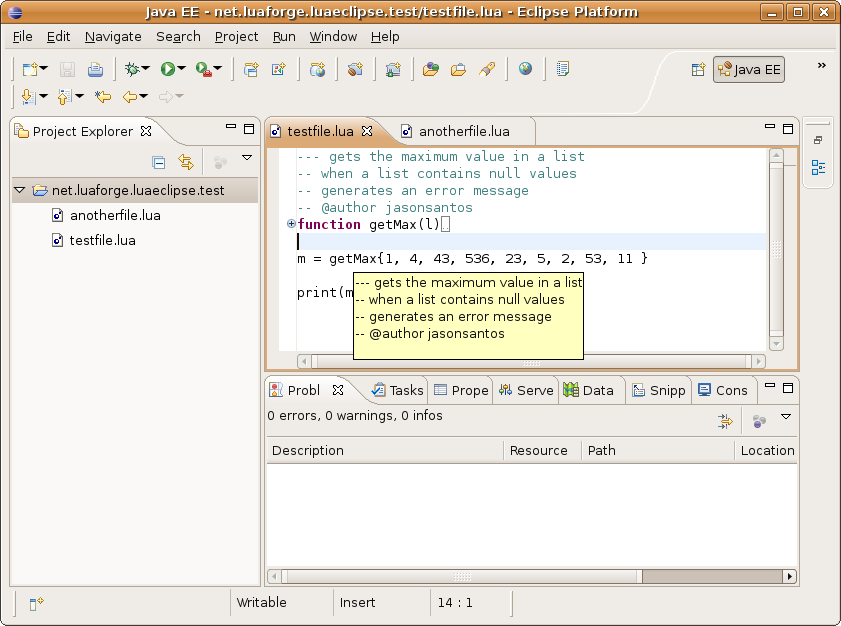
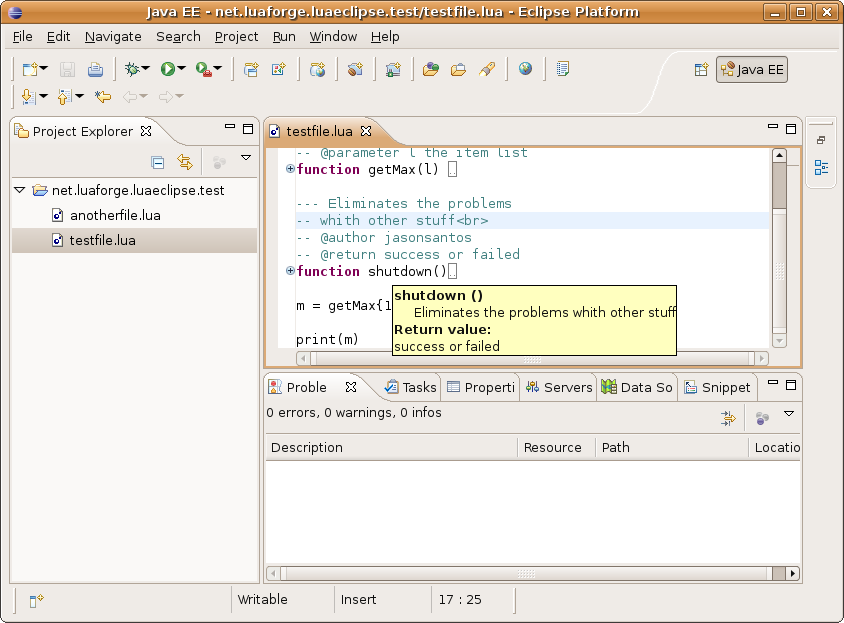
Updated documentation for 1.2 release (US and BR) Added several screenshots

diff --git a/doc/br/manual.html b/doc/br/manual.html
@@ -52,10 +52,10 @@ integrado para a linguagem de programa&ccedil;&atilde;o Lua</div>
 		<li><a href="manual.html#introduction">Introdu&ccedil;&atilde;o</a></li>
 		<li><a href="manual.html#installation">Instala&ccedil;&atilde;o</a></li>
 		<li><a href="manual.html#project">Primeiro Projeto Lua</a></li>
-		<li><a href="manual.html#preferences">Prefer&ecirc;ncias e
-		interpretadores</a></li>
+		<li><a href="manual.html#preferences">Prefer&ecirc;ncias e interpretadores</a></li>
 		<li><a href="manual.html#run">Executando um arquivo Lua</a></li>
-		<!--<li><a href="manual.html#extension">Pontos de extens&atilde;o</a></li>-->
+		<li><a href="manual.html#luaprofiler">Integração com LuaProfiler</a></li>
+		<li><a href="manual.html#luadoc">Integração com LuaDoc</a></li>
 	</ul>
 	</li>
 	<li><a href="screnshots.html">Screenshots</a></li>
@@ -94,6 +94,8 @@ simples, mas necessita de alguns pr&eacute;-requisitos. O primeiro deles
 3.2 ou superior da plataforma Eclipse. O Eclipse pode ser baixado no endere&ccedil;o
 <a href="http://www.eclipse.org">www.eclipse.org</a>. A instala&ccedil;&atilde;o do Eclipse, por sua vez, exigir&aacute; uma instala&ccedil;&atilde;o pr&eacute;via do  Java SDK.</p>
 
+<p>É possível install o LuaEclipse com a instalação mínima do Eclipse (Eclipse Platform Binaries), mas é recomendável usar uma distribuição mais completa, como o C/C++ Development Tooling (CDT).</p>
+
 <p>Existem duas formas de instalar o LuaEclipse.</p>
 
 <ul>
@@ -108,7 +110,8 @@ simples, mas necessita de alguns pr&eacute;-requisitos. O primeiro deles
 		</li>
 		<li>Marque somente LuaEclipse e clique em "Finish". Em seguida
 		siga os passos da instala&ccedil;&atilde;o <img alt="LuaElipse"
-			src="img/install1.png" /></li>
+			src="img/install1.png" /><li>Na próxima tela, seleciona as <i>features</i> para instalar. Se deseja utilizar a nova integração com o LuaProfiler, selecione a feature apropriada.<br />
+		<img alt="LuaElipse" src="img/install2.png" /></li></li>
 	</ul>
 	</li>
 	<li>A partir do download manual:
@@ -137,7 +140,7 @@ simples, mas necessita de alguns pr&eacute;-requisitos. O primeiro deles
 
 <p>Para criar um novo projeto Lua, clique no menu na
 op&ccedil;&atilde;o File-&gt;New-&gt;New Lua Project.</p>
-<p><img alt="LuaElipse" src="img/newproject.png" /></p>
+<p><img alt="LuaElipse" src="img/newproject.png" /><br /><img src="img/newproject_wizard.png" /></p>
 <p>Para incluir um novo script Lua. Selecione o projeto Lua
 desejado, em seguida clique com o bot&atilde;o direito e selecione a
 op&ccedil;&atilde;o Lua Actions-&gt;New Lua File</p>
@@ -174,10 +177,10 @@ ser&aacute; armazenada.</p>
 
 <h2><a name="run"></a>Executando um arquivo Lua</h2>
 
-<p>O LuaEclipse utiliza as extens&otilde;es do Eclipse para
-execu&ccedil;&atilde;o de scripts Lua. Para executar um arquivo .lua
+<p>O LuaEclipse usa os <i>Launchers</i> da plataforma Eclipse para executar os scripts Lua. <br />Existem duas maneiras de executar um script lua: você pode criar uma configuração de execução para seu script ou pode usar o menu de contexto do Eclipse diretamente no arquivo, selecionando  Run As -&gt; Lua application. <br />
+<img alt="LuaElipse" src="img/runfileas.png" /><br />Para criar uma configuração de execução,
 selecione a op&ccedil;&atilde;o de menu Run-&gt;Run...<br />
-Crie uma nova configura&ccedil;&atilde;o de execu&ccedil;&atilde;o do
+Crie uma nova configura&ccedil;&atilde;o do
 tipo "Lua Standalone Application".</p>
 <p><img alt="LuaElipse" src="img/runfile.png" /></p>
 
@@ -187,9 +190,33 @@ tipo "Lua Standalone Application".</p>
 <p> Finalmente na aba Environment, selecione ou adicione um interpretador Lua para executar o arquivo Lua.
 No campo Variables, adicione as vari&aacute;veis de ambiente que desejar para a execu&ccedil;&atilde;o do script.</p>
 <p><img alt="LuaElipse" src="img/environment.png" /></p>
-<p> Pressione o bot&atilde;o "Run", e acompanhe a saída padr&atilde;o na "Console View".
+<p> Pressione o bot&atilde;o "Run", e acompanhe a saída padr&atilde;o na "Console View".<br /><h2>Integração com o LuaProfiler</h2>
+
+<p>LuaEclipse introduziu na version 1.2 uma nova perspectiva para o  Lua Profiler. Ela torna possível ao usuário executar um script lua usando o módulo LuaProfiler, exibindo os resultados numa View especial</p> 
+<p><img alt="LuaElipse" src="img/LuaEclipse-profiler-01.png" /></p>
+<p>Uma vez que é possível utilizar diversos binários de runtime, é necessário indicar o mecanismo de profile que se deseja usar.</p> 
+<p><img alt="LuaElipse" src="img/LuaEclipse-Profiler-02.png" /></p>
+<p>Esse mecanismo de profiler será identificado por um nome, e pode ser reutilizado em diversos projetos.</p> 
+<p><img alt="LuaElipse" src="img/LuaEclipse-Profiler-03.png" /></p>
+<p>Uma vez que o profiler estiver selecionado, qualquer script que possa ser executado poderá ser analisado com o LuaProfiler. Não há necessidade de incluir comandos 'require' ou iniciar o profiler de nenhuma forma dentro do script - o plug-in  funcionará automaticamente em qualquer script Lua válido</p> 
+<p><img alt="LuaElipse" src="img/LuaEclipse-Profiler-05.png" /></p>
+<p>Os resultados da análise de execução com o LuaProfiler podem ser vistos em uma View especial, separados em colunas. A primeira coluna mostrará todas as funções usadas na execução; a segunda coluna mostrará a quantidade de vezes que cada função foi chamada; a terceira mostra o tempo médio decorrido dentro da função, dividido pela quantidade de chamadas; as últimas duas colunas são o tempo total gasto dentro de cada função e o percentual da execução total que esses tempos representam.</p>
+
+<h2><a name="luadoc"></a>Integração com o LuaDoc</h2>
+
+<p>A versão  1.2  do LuaEclipse também introduziu integração básica com o módulo LuaDoc.</p> 
+<p><img alt="LuaElipse" src="img/LuaEclipse-luadoc-01.png" /></p>
+<p>É possível ao usuário escrever documentação no estilo LuaDoc diretamente em seu código, e visualizar os resultados formatados em HTML no hover do mouse.</p> 
+<p><img alt="LuaElipse" src="img/LuaEclipse-luadoc-03.png" /></p>
+<p>O plugin usa o próprio LuaDoc para processar a documentação; o módulo está agora embutido na distribuição padrão do LuaEclipse, de modo que os usuários não precisam instalá-lo antes de usar essas funcionalidades.</p> 
+<p><img alt="LuaElipse" src="img/LuaEclipse-luadoc-05.png" /></p>
+<p>A documetação é processada cada vez que um arquivo lua é salvo, e a documentação presente no projeto é persistida e fica disponível mesmo depois que o projeto é fechado e reaberto.</p> 
+<p><img alt="LuaElipse" src="img/LuaEclipse-luadoc-04.png" /></p>
+<p>Adicionalmente, o manual de referência do  Lua 5.1 foi incluída como uma documentação extra - de modo que o usuário agora pode sobrevoar as funções da biblioteca padrão com o mouse para visualizar sua documentação oficial.</p>
 </div>
 <!-- id="content" --></div>
+
+
 <!-- id="main" -->
 
 <div id="about">

diff --git a/doc/us/manual.html b/doc/us/manual.html
@@ -55,7 +55,8 @@ environment for the Lua programming language</div>
 				<li><a href="manual.html#project">First Lua project</a></li>
 				<li><a href="manual.html#preferences">Preferences and interpreters</a></li>
 				<li><a href="manual.html#run">Running a Lua file</a></li>
-                                <!--<li><a href="manual.html#extension">Pontos de extens&atilde;o</a></li>-->
+				<li><a href="manual.html#luaprofiler">LuaProfiler Integration</a></li>
+				<li><a href="manual.html#luadoc">LuaDoc Integration</a></li>
 			</ul>
 		</li>
 		<li><a href="screenshots.html">Screenshots</a></li>
@@ -90,6 +91,8 @@ The first one is that the user must have already installed the 3.2.* or later ve
 the Eclipse platform. Eclipse can be downloaded at 
 <a href="http://www.eclipse.org">www.eclipse.org</a>. As a consequence,
 it is necessary that Java SDK is installed to run Eclipse.</p>
+
+<p>It is possible to install LuaEclipse with the minimal installation of Eclipse (Eclipse Platform Binaries), but we recommend a more complete distribution, such as C/C++ Development Tooling (CDT).</p>
 
 <p>There are two ways to install LuaEclipse.</p>
 
@@ -172,7 +175,9 @@ On the Arguments Tab: configure the working directory, interpreter arguments and
 At Variables field, add th environment variables needed for your script.</p>
 <p><img alt="LuaElipse" src="img/environment.png" /></p>
 <p> Press Run and view the script output at the "Console View".</p>
-<h2><a name="preferences"></a>LuaProfiler Integration</h2>
+
+<h2><a name="luaprofiler"></a>LuaProfiler Integration</h2>
+
 <p>LuaEclipse introduced in version 1.2 a new Lua Profiler perspective. It makes possible for the user to run a lua script using the LuaProfiler module, while seeing the results in a special View</p> 
 <p><img alt="LuaElipse" src="img/LuaEclipse-profiler-01.png" /></p>
 <p>Since one can make use of several runtime binaries, it is necessary to select a profiler engine to use.</p> 
@@ -181,7 +186,22 @@ At Variables field, add th environment variables needed for your script.</p>
 <p><img alt="LuaElipse" src="img/LuaEclipse-Profiler-03.png" /></p>
 <p>Once the profiler is selected, any executable script can be profiled. There is no need to require or to start the profiler within the program - the plug-in will automatically work on any valid Lua script</p> 
 <p><img alt="LuaElipse" src="img/LuaEclipse-Profiler-05.png" /></p>
-<p>Results of the profiling execution can be seen in a special View, separated in columns. The first column will show all functions used in the execution; the second column will show the amount of times each function was called; A third column shows the average time spent inside the function, divided by the amount of calls; the last two columns are the total time spent inside each function and the percent of the total execution that these times represent.</p> 
+<p>Results of the profiling execution can be seen in a special View, separated in columns. The first column will show all functions used in the execution; the second column will show the amount of times each function was called; A third column shows the average time spent inside the function, divided by the amount of calls; the last two columns are the total time spent inside each function and the percent of the total execution that these times represent.</p>
+
+
+<h2><a name="luadoc"></a>LuaDoc Integration</h2>
+
+<p>Version 1.2 introduced also basic integration with the LuaDoc module.</p> 
+<p><img alt="LuaElipse" src="img/LuaEclipse-luadoc-01.png" /></p>
+<p>It makes possible for the user to write LuaDoc-style documentation on his code and make their HTML results available in mouse hover.</p> 
+<p><img alt="LuaElipse" src="img/LuaEclipse-luadoc-03.png" /></p>
+<p>The plugin uses LuaDoc itself for processing documentation; the module is now included in the standard bundle of LuaEclipse, so users do not need to install it before using this feature.</p> 
+<p><img alt="LuaElipse" src="img/LuaEclipse-luadoc-05.png" /></p>
+<p>Documentation is processed every time a file is saved in the project, and documentation present in project is persisted and available after the project is closed and reopen.</p> 
+<p><img alt="LuaElipse" src="img/LuaEclipse-luadoc-04.png" /></p>
+<p>Aditionally, Lua 5.1 reference was included as a bonus documentation - so the user now can hover standard library functions for their official documentation.</p>
+
+ 
 </div>
 <!-- id="content" --></div>
 <!-- id="main" -->

diff --git a/doc/us/index.html b/doc/us/index.html
@@ -52,7 +52,9 @@
 				<li><a href="manual.html#project">First Lua project</a></li>
 				<li><a href="manual.html#preferences">Preferences and interpreters</a></li>
 				<li><a href="manual.html#run">Running a Lua file</a></li>
-                                <!--<li><a href="manual.html#extension">Pontos de extens&atilde;o</a></li>-->
+				<li><a href="manual.html#luaprofiler">LuaProfiler Integration</a></li>
+				<li><a href="manual.html#luadoc">LuaDoc Integration</a></li>
+
 			</ul>
 		</li>
 		<li><a href="screenshots.html">Screenshots</a></li>
@@ -71,13 +73,11 @@
 <h2><a name="overview"></a>Overview
 </h2>
 <p>
-
-
   LuaEclipse is a collection of plugins developed for the <a href="https://www.eclipse.org">Eclipse</a>  platform that together make an IDE for the development of applications in the Lua programming language.
   In this environment it's possible to edit Lua scripts with <i>syntax highlight, code completion</i>, compilation errors, code and comment folding, script execution with a pre-configured interpreter, besides the tools that the eclipse platform provides.
 </p>
 <p>
-The main goal of the project is that new tools will be developed using the extension architecture that the Eclipse platform provides and that LuaEclipse has available for extension of its capabilities.
+  The main goal of the project is that new tools will be developed using the extension architecture that the Eclipse platform provides and that LuaEclipse has available for extension of its capabilities.
 </p>
 
 
@@ -88,13 +88,13 @@ The main goal of the project is that new tools will be developed using the exten
   All plugins are developed in Java. A plugin consists of Java classes packed in a JAR library and some files like img, XML files, native libraries, etc. Not all plugins have Java code, some of them are plugins holding help files and user manuals.
 </p>
 <p>
-  Version 1.2.0 has introduced integration with LuaDoc 3.0 - that is distributed embedded within LuaEclipse - and LuaProfiler. 
+  Version 1.2.0 has introduced integration with <a href="http://luadoc.luaforge.net/">LuaDoc</a> 3.0.1 - that is distributed embedded within LuaEclipse - and <a href="http://www.keplerproject.org/luaprofiler/">LuaProfiler</a>, that must be installed independently. 
 </p>
 <h2><a name="status"></a>Status</h2>
 <p>LuaEclipse 1.2.0 (for Lua 5.1) is available for 
 <a href="#download">download</a>.
 </p>
-<p>The plugin has versions for Windows, MacOS X and Linux, and has been tested for Eclipse 3.2.x and Eclipse 3.3.x</p>
+<p>The plugin has versions for Windows, MacOS X and Linux, and has been tested for Eclipse 3.3.x</p>
 
 <h2><a name="download"></a>Download</h2>
 <p>LuaEclipse can be obtained directly from the plug-in update site. See <a href="manual.html#installation">installation instructions.</a></p>
@@ -105,7 +105,7 @@ The main goal of the project is that new tools will be developed using the exten
 
 <h4>LuaEclipse 1.2</h4>
 <p>
-The 1.2 version was developed by Luís Eduardo Jason Santos,   Edgard Arakaki and Guilherme Martins, with contribuitions from Andr&eacute; Carregal, Raphael Amorim, Danilo Tuler and Thiago Ponte.
+The 1.2 version was developed by Lu&iacute;s Eduardo Jason Santos,   Edgard Arakaki and Guilherme Martins, with contribuitions from Andr&eacute; Carregal, Raphael Amorim, Danilo Tuler and Thiago Ponte.
 </p>
 <h4>LuaEclipse 1.1</h4>
 <p>

diff --git a/doc/br/index.html b/doc/br/index.html
@@ -52,6 +52,8 @@
 				<li><a href="manual.html#project">Primeiro Projeto Lua</a></li>
 				<li><a href="manual.html#preferences">Prefer&ecirc;ncias e interpretadores</a></li>
 				<li><a href="manual.html#run">Executando um arquivo Lua</a></li>
+				<li><a href="manual.html#luaprofiler">Integração com LuaProfiler</a></li>
+				<li><a href="manual.html#luadoc">Integração com LuaDoc</a></li>
 			</ul>
 		</li>
 		<li><a href="screnshots.html">Screenshots</a></li>
@@ -81,14 +83,15 @@ O ponto principal do projeto, &eacute; que estas novas ferramentas ser&atilde;o 
 <p>
   Um plug-in &eacute; a menor unidade da plataforma Eclipse que pode ser desenvolvida e distribuida separadamente. Normalmente uma ferramenta &eacute; desenvolvida como um &uacute;nico plug-in, enquanto outras mais complexas s&atilde;o constitu&iacute;das v&aacute;rios plug-ins. Exceto pelo c&oacute;digo principal da plataforma de execu&ccedil;&atilde;o do Eclipse, todas as funcionalidade est&atilde;o implementadas como plug-ins. <br/>
   Todos os plug-ins s&atilde;o desenvolvidos em Java. Um plug-in consiste de classes Java empacotadas em uma biblioteca do tipo JAR e alguns arquivos como imagens, arquivos XML, bibliotecas nativas, etc. Nem todos os plugins possuem c&oacute;digo necessariamente, alguns deles s&atilde;o plug-ins que contribuem, por exemplo, com arquivos de ajuda e manual de usu&aacute;rio em p&aacute;ginas HTML.
-
 </p>
+
+<P>A versão 1.2.0 introduziu a integração com o LuaDoc 3.0.1 - que está sendo distribuído embutido no LuaEclipse - e com o LuaProfiler.</P>
 
 <h2><a name="status"></a>Status</h2>
-<p>A vers&atilde;o 1.1.0 do LuaEclipse (para Lua 5.1) est&aacute; dispon&iacute;vel para
+<p>A vers&atilde;o 1.2 do LuaEclipse (para Lua 5.1) est&aacute; dispon&iacute;vel para
 <a href="#download">download</a>.
 </p>
-<p>O plugin possui vers&otilde;es para Windows, MacOS X e Linux, e funciona tanto no Eclipse 3.2.x quanto no Eclipse 3.3.x.</p>
+<p>O plugin possui vers&otilde;es para Windows, MacOS X e Linux, e foi testado no Eclipse 3.3.x.</p>
 
 <h2><a name="download"></a>Download</h2>
 <p>O plug-in do LuaEclipse ser obtido facilmente atrav&eacute;s de seu update site. Veja <a href="manual.html#installation">instru&ccedil;&otilde;es de instala&ccedil;&atilde;o</a></p>
@@ -98,6 +101,11 @@ p&aacute;gina no
 <a href="http://luaforge.net/project/showfiles.php?group_id=9">LuaForge</a>. </p>
 
 <h2><a name="credits"></a>Cr&eacute;ditos</h2>
+
+<h4>LuaEclipse 1.2.x</h4>
+<p>
+A Vers&atilde;o 1.2 foi desenvolvida por Lu&iacute;s Eduardo Jason Santos, Edgard Arakaki e Guilherme Martins, com inestim&aacute;veis contribui&ccedil;&otilde;es de Andr&eacute; Carregal, Raphael Amorim, Danilo Tuler and Thiago Ponte.
+</p>
 
 <h4>LuaEclipse 1.1.x</h4>
 <p>

diff --git a/doc/br/screnshots.html b/doc/br/screnshots.html
@@ -52,9 +52,11 @@ integrado para a linguagem de programa&ccedil;&atilde;o Lua</div>
 		<li><a href="manual.html#introduction">Introdu&ccedil;&atilde;o</a></li>
 		<li><a href="manual.html#installation">Instala&ccedil;&atilde;o</a></li>
 		<li><a href="manual.html#project">Primeiro Projeto Lua</a></li>
-		<li><a href="manual.html#preferences">Prefer&ecirc;ncias e
-		interpretadores</a></li>
+		<li><a href="manual.html#preferences">Prefer&ecirc;ncias e interpretadores</a></li>
 		<li><a href="manual.html#run">Executando um arquivo Lua</a></li>
+		<li><a href="manual.html#luaprofiler">Integração com LuaProfiler</a></li>
+		<li><a href="manual.html#luadoc">Integração com LuaDoc</a></li>
+
 	</ul>
 	</li>
 	<li><strong>Screenshots</strong></li>
@@ -75,15 +77,22 @@ integrado para a linguagem de programa&ccedil;&atilde;o Lua</div>
 	
 <h2><a name="screenshots"></a>Screenshots</h2>
 
-<p>
-<a href="img/ss1.png" target="_blank"><img alt="LuaElipse" src="img/ss1.png" width="80%" height="80%"/></a>
+<p><a href="img/ss1.png" target="_blank"><img alt="LuaElipse" src="img/ss1.png" width="70%" height="70%"/></a>
 </p>
-<p><a href="img/ss2.png" target="_blank"><img alt="LuaElipse" src="img/ss2.png" width="80%" height="80%"/></a>
+<p><a href="img/ss2.png" target="_blank"><img alt="LuaElipse" src="img/ss2.png" width="70%" height="70%"/></a>
 </p>
-<p><a href="img/ss3.png" target="_blank"><img alt="LuaElipse" src="img/ss3.png" width="80%" height="80%"/></a>
+<p><a href="img/ss3.png" target="_blank"><img alt="LuaElipse" src="img/ss3.png" width="70%" height="70%"/></a>
 </p>
-<!-- REMOVED UNTIL CODE PARSER IS FIXED p><a href="img/ss4.png" target="_blank"><img alt="LuaElipse" src="img/ss4.png" width="80%" height="80%"/></a>
-</p -->
+<p><a href="img/ss4.png" target="_blank"><img alt="LuaElipse" src="img/ss4.png" width="70%" height="70%"/></a>
+</p>
+<p><a href="img/ss4.png" target="_blank"><img alt="LuaElipse" src="img/ss4.png" width="70%" height="70%"/></a>
+</p>
+<p><a href="img/ss5.png" target="_blank"><img alt="LuaElipse" src="img/ss5.png" width="70%" height="70%"/></a>
+</p>
+<p><a href="img/ss6.png" target="_blank"><img alt="LuaElipse" src="img/ss6.png" width="70%" height="70%"/></a>
+</p>
+<p><a href="img/ss7.png" target="_blank"><img alt="LuaElipse" src="img/ss7.png" width="70%" height="70%"/></a>
+</p>
 
 
 </div> <!-- id="content" -->

diff --git a/doc/us/screenshots.html b/doc/us/screenshots.html
@@ -52,7 +52,8 @@
 				<li><a href="manual.html#project">First Lua project</a></li>
 				<li><a href="manual.html#preferences">Preferences and interpreters</a></li>
 				<li><a href="manual.html#run">Running a Lua file</a></li>
-                                <!--<li><a href="manual.html#extension">Pontos de extens&atilde;o</a></li>-->
+				<li><a href="manual.html#luaprofiler">LuaProfiler Integration</a></li>
+				<li><a href="manual.html#luadoc">LuaDoc Integration</a></li>
 			</ul>
 		</li>
 		<li><strong>Screenshots</strong></li>
@@ -71,20 +72,21 @@
 	
 <h2><a name="screenshots"></a>Screenshots</h2>
 
-<p>
-<a href="img/ss1.png" target="_blank"><img alt="LuaElipse" src="img/ss1.png" width="80%" height="80%"/></a>
+<p><a href="img/ss1.png" target="_blank"><img alt="LuaElipse" src="img/ss1.png" width="70%" height="70%"/></a>
 </p>
-<p><a href="img/ss2.png" target="_blank"><img alt="LuaElipse" src="img/ss2.png" width="80%" height="80%"/></a>
+<p><a href="img/ss2.png" target="_blank"><img alt="LuaElipse" src="img/ss2.png" width="70%" height="70%"/></a>
 </p>
-<p><a href="img/ss3.png" target="_blank"><img alt="LuaElipse" src="img/ss3.png" width="80%" height="80%"/></a>
+<p><a href="img/ss3.png" target="_blank"><img alt="LuaElipse" src="img/ss3.png" width="70%" height="70%"/></a>
 </p>
-<p><a href="img/ss4.png" target="_blank"><img alt="LuaElipse" src="img/ss4.png" width="80%" height="80%"/></a>
+<p><a href="img/ss4.png" target="_blank"><img alt="LuaElipse" src="img/ss4.png" width="70%" height="70%"/></a>
 </p>
-
-<p><a href="img/ss4.png" target="_blank"><img alt="LuaElipse" src="img/ss4.png" width="80%" height="80%"/></a>
+<p><a href="img/ss4.png" target="_blank"><img alt="LuaElipse" src="img/ss4.png" width="70%" height="70%"/></a>
 </p>
-
-<p><a href="img/ss5.png" target="_blank"><img alt="LuaElipse" src="img/ss5.png" width="80%" height="80%"/></a>
+<p><a href="img/ss5.png" target="_blank"><img alt="LuaElipse" src="img/ss5.png" width="70%" height="70%"/></a>
+</p>
+<p><a href="img/ss6.png" target="_blank"><img alt="LuaElipse" src="img/ss6.png" width="70%" height="70%"/></a>
+</p>
+<p><a href="img/ss7.png" target="_blank"><img alt="LuaElipse" src="img/ss7.png" width="70%" height="70%"/></a>
 </p>
 
 

diff --git a/doc/br/history.html b/doc/br/history.html
@@ -52,9 +52,10 @@ integrado para a linguagem de programa&ccedil;&atilde;o Lua</div>
 		<li><a href="manual.html#introduction">Introdu&ccedil;&atilde;o</a></li>
 		<li><a href="manual.html#installation">Instala&ccedil;&atilde;o</a></li>
 		<li><a href="manual.html#project">Primeiro Projeto Lua</a></li>
-		<li><a href="manual.html#preferences">Prefer&ecirc;ncias e
-		interpretadores</a></li>
+		<li><a href="manual.html#preferences">Prefer&ecirc;ncias e interpretadores</a></li>
 		<li><a href="manual.html#run">Executando um arquivo Lua</a></li>
+		<li><a href="manual.html#luaprofiler">Integração com LuaProfiler</a></li>
+		<li><a href="manual.html#luadoc">Integração com LuaDoc</a></li>
 	</ul>
 	</li>
 	<li><a href="screnshots.html">Screenshots</a></li>
@@ -76,9 +77,11 @@ integrado para a linguagem de programa&ccedil;&atilde;o Lua</div>
 <h2><a name="history"></a>Hist&oacute;ria</h2>
 
 <dl class="history">
-    <dt><strong>1.2.0</strong> [01/12/2007]</dt>
+    <dt><strong>1.2.0</strong> [02/22/2008]</dt>
     <dd>Inclu&iacute;da integra&ccedil;&atilde;o com o LuaDoc</dd>
     <dd>Inclu&iacute;da integra&ccedil;&atilde;o com o LuaProfiler</dd>
+    <dd>Inclu&iacute;do suporte para Linux x64</dd>
+    <dd>Inclu&iacute;da documentação de referência do Lua 5.1</dd>
     <dd>Inclu&iacute;do suporte a arquivos com shabang (#!)<dd>
     <dd>Pequenas corre&ccedil;&otilde;es de bugs<dd>
     <dt><strong>1.1.0</strong> [01/10/2007]</dt>

diff --git a/doc/us/history.html b/doc/us/history.html
@@ -52,7 +52,8 @@
 				<li><a href="manual.html#project">First Lua project</a></li>
 				<li><a href="manual.html#preferences">Preferences and interpreters</a></li>
 				<li><a href="manual.html#run">Running a Lua file</a></li>
-                                <!--<li><a href="manual.html#extension">Pontos de extens&atilde;o</a></li>-->
+				<li><a href="manual.html#luaprofiler">LuaProfiler Integration</a></li>
+				<li><a href="manual.html#luadoc">LuaDoc Integration</a></li>
 			</ul>
 		</li>
 		<li><a href="screenshots.html">Screenshots</a></li>
@@ -72,10 +73,11 @@
 <h2><a name="history"></a>History</h2>
 
 <dl class="history">
-    <dt><strong>1.2.0</strong> [01/10/2007]</dt>
+    <dt><strong>1.2.0</strong> [22/02/2008]</dt>
     <dd>Added LuaDoc integration</dd>
     <dd>Added LuaProfiler integration</dd>
     <dd>Added Support for Linux x64 </dd>
+    <dd>Added Lua 5.1 Reference documentation </dd>
     <dd>Support for files with a shabang (#!)<dd>
     <dd>Minor bug fixes<dd>
     <dt><strong>1.1.0</strong>[10/01/2007]</dt>

diff --git a/doc/br/license.html b/doc/br/license.html
@@ -52,9 +52,10 @@ integrado para a linguagem de programa&ccedil;&atilde;o Lua</div>
 		<li><a href="manual.html#introduction">Introdu&ccedil;&atilde;o</a></li>
 		<li><a href="manual.html#installation">Instala&ccedil;&atilde;o</a></li>
 		<li><a href="manual.html#project">Primeiro Projeto Lua</a></li>
-		<li><a href="manual.html#preferences">Prefer&ecirc;ncias e
-		interpretadores</a></li>
+		<li><a href="manual.html#preferences">Prefer&ecirc;ncias e interpretadores</a></li>
 		<li><a href="manual.html#run">Executando um arquivo Lua</a></li>
+		<li><a href="manual.html#luaprofiler">Integração com LuaProfiler</a></li>
+		<li><a href="manual.html#luadoc">Integração com LuaDoc</a></li>
 	</ul>
 	</li>
 	<li><a href="screnshots.html">Screenshots</a></li>

diff --git a/doc/us/license.html b/doc/us/license.html
@@ -52,7 +52,9 @@
 				<li><a href="manual.html#project">First Lua project</a></li>
 				<li><a href="manual.html#preferences">Preferences and interpreters</a></li>
 				<li><a href="manual.html#run">Running a Lua file</a></li>
-                                <!--<li><a href="manual.html#extension">Pontos de extens&atilde;o</a></li>-->
+				<li><a href="manual.html#luaprofiler">LuaProfiler Integration</a></li>
+				<li><a href="manual.html#luadoc">LuaDoc Integration</a></li>
+
 			</ul>
 		</li>
 		<li><a href="screenshots.html">Screenshots</a></li>
